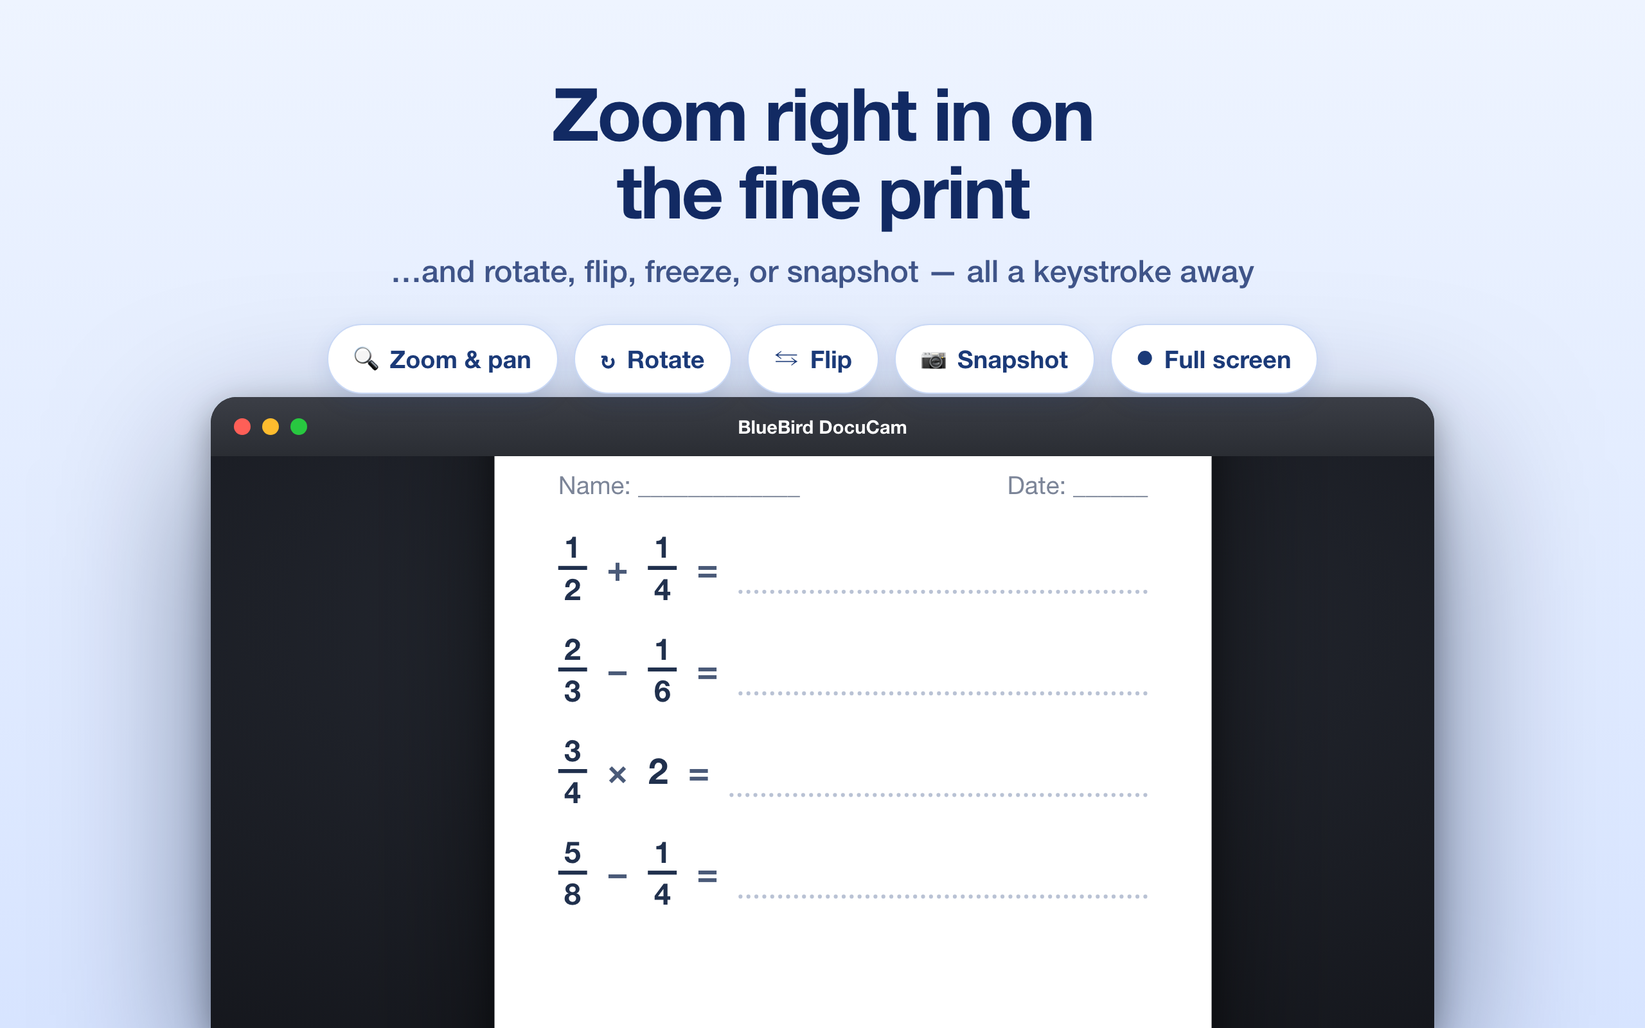
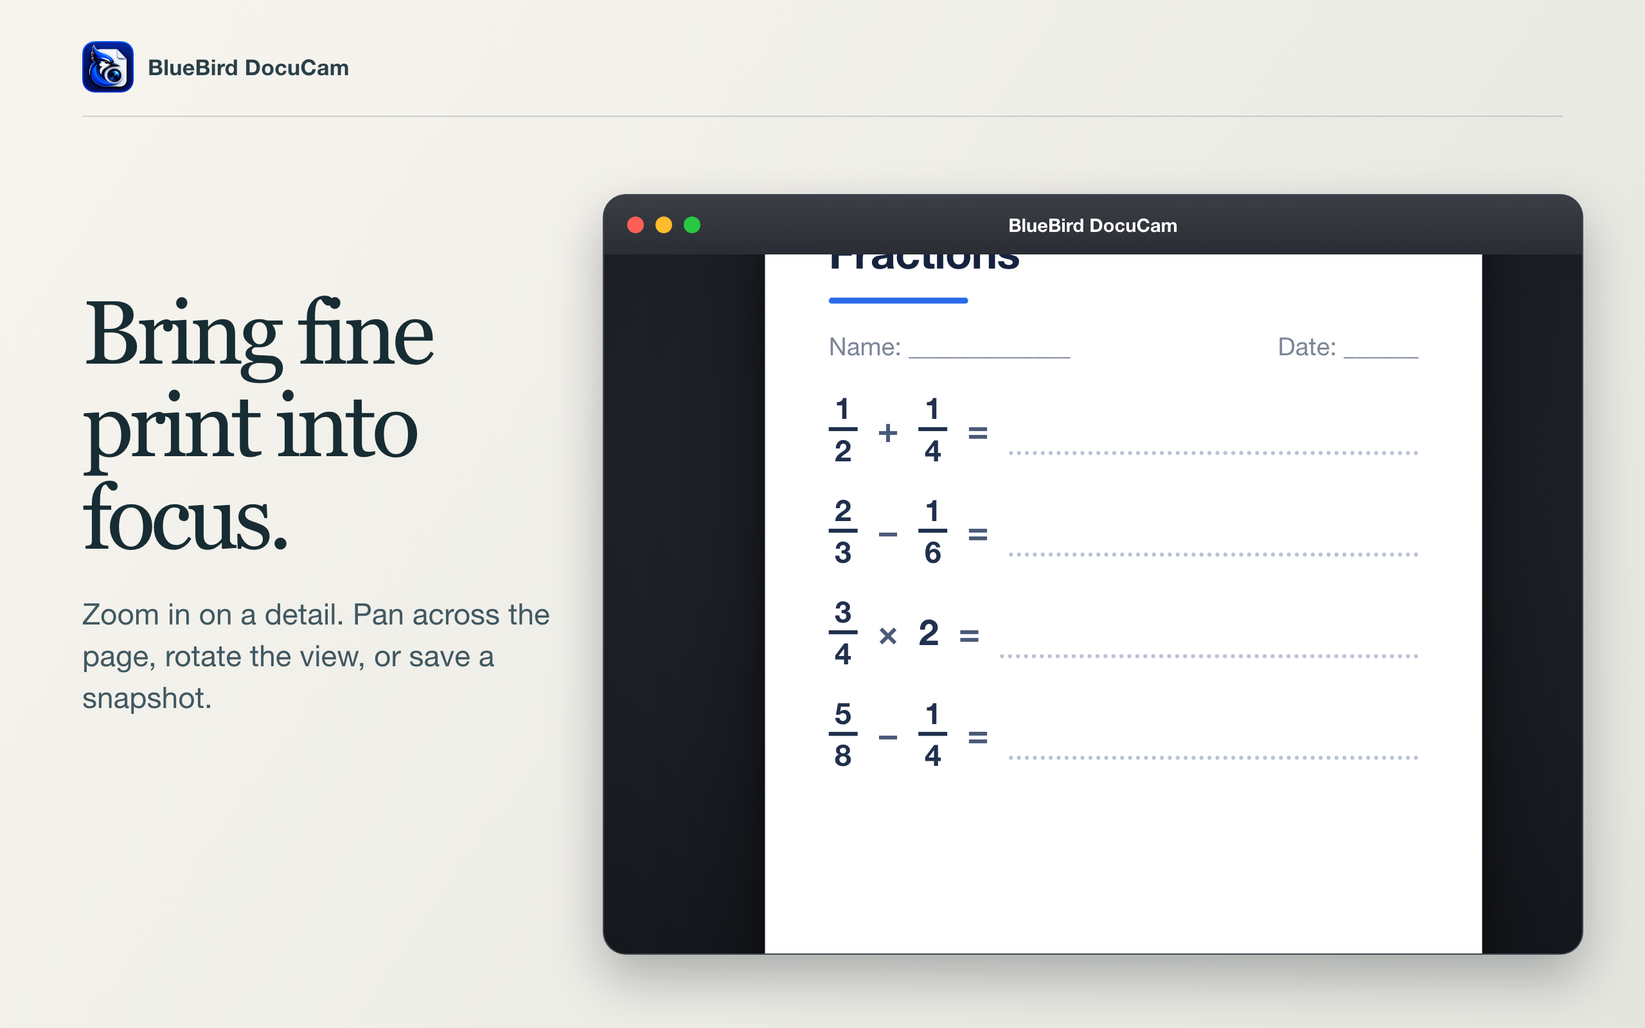
Refresh the Mac App Store gallery and listing copy

diff --git a/appstore/shots/base.css b/appstore/shots/base.css
@@ -122,3 +122,73 @@ html,body{width:1280px;height:800px;overflow:hidden;background:#000;
 
 /* zoom loupe framing */
 .viewer.zoom > .paper{transform:scale(1.55);transform-origin:38% 42%;}
+
+/* Production app branding and camera-choice campaign (November 2026). */
+.brand-lockup{position:absolute;top:28px;left:50%;transform:translateX(-50%);display:flex;align-items:center;gap:12px;z-index:8;white-space:nowrap;color:#fff;font-size:17px;font-weight:700;letter-spacing:.15px;}
+.brand-lockup img{width:44px;height:44px;object-fit:contain;}
+.stage.light .brand-lockup{color:#17376d;}
+.headline{padding-top:100px;flex-shrink:0;}
+.headline h1{font-size:53px;}
+.headline p{font-size:22px;}
+.dual-stage .headline h1{font-size:57px;}
+.dual-stage .headline p{margin-top:15px;}
+.dual-hero{position:absolute;top:310px;bottom:58px;left:0;right:0;}
+.hero-window{position:absolute;left:282px;top:6px;width:716px;height:376px;z-index:2;}
+.hero-window .viewer>.paper{transform:scale(.65);}
+.device-card{position:absolute;width:230px;text-align:center;color:#fff;z-index:4;}
+.usb-card{left:30px;top:34px;}
+.device-card svg{width:210px;height:230px;filter:drop-shadow(0 15px 15px rgba(0,15,55,.25));}
+.device-card h2{font-size:19px;line-height:1.25;letter-spacing:-.3px;margin-top:15px;}
+.device-card p{font-size:15px;line-height:1.4;color:#d6e6ff;margin-top:7px;}
+.phone-card{right:30px;top:14px;}
+.phone-back{position:relative;margin:0 auto;width:130px;height:253px;border-radius:27px;background:linear-gradient(140deg,#d9e3f2,#8eaccd 65%,#6388b0);border:3px solid #d5e4f6;box-shadow:12px 18px 26px rgba(0,15,55,.35),inset -5px 0 8px rgba(23,45,81,.2);transform:rotate(8deg);}
+.camera-island{position:absolute;left:9px;top:10px;width:67px;height:71px;border-radius:17px;background:#aac0db;box-shadow:0 2px 5px #6c86a2;}
+.camera-island i{position:absolute;width:26px;height:26px;border-radius:50%;border:3px solid #768da8;background:radial-gradient(circle at 42% 40%,#3b718e 0%,#091322 35%,#0b1020 65%,#31455f 100%);}
+.camera-island i:nth-child(1){left:5px;top:6px;}.camera-island i:nth-child(2){left:33px;top:24px;}.camera-island i:nth-child(3){left:5px;top:40px;}
+.camera-island b{position:absolute;width:10px;height:10px;right:10px;top:8px;border-radius:50%;background:#fff3cf;}
+.phone-ring{position:absolute;left:35px;top:134px;width:57px;height:57px;border:5px solid rgba(238,246,255,.4);border-radius:50%;}
+.hero-footer{position:absolute;top:403px;width:100%;text-align:center;font-size:20px;font-weight:600;color:#eff6ff;}
+.compatibility{position:absolute;bottom:21px;left:0;right:0;text-align:center;color:#cadcf6;font-size:12px;}
+.usb-corner{position:absolute;right:42px;bottom:30px;width:228px;text-align:center;background:rgba(255,255,255,.93);padding:12px 12px 17px;border-radius:22px;box-shadow:0 15px 40px rgba(15,40,90,.2);z-index:6;}
+.usb-corner svg{width:180px;height:196px;}
+.usb-corner span{display:block;font-size:14px;font-weight:700;color:#17376d;}
+
+/* Record locally and replay the finished movie using a Mac video player. */
+.recording-stage .headline h1{font-size:57px;}
+.recording-window{position:absolute;left:60px;top:310px;width:780px;height:410px;}
+.recording-window .viewer>.paper{transform:scale(.69);}
+.record-pill{position:absolute;top:14px;left:50%;transform:translateX(-50%);display:flex;align-items:center;gap:8px;padding:7px 12px;border-radius:10px;background:rgba(130,12,18,.94);color:#fff;font-size:16px;font-weight:700;}
+.record-pill i{width:9px;height:9px;background:#ff5c62;border-radius:50%;}
+.saved-lesson{position:absolute;right:60px;top:346px;width:310px;padding:23px 20px 24px;background:#f5f9ff;border:1px solid #e7effc;border-radius:23px;box-shadow:0 24px 60px rgba(0,10,40,.32);text-align:center;}
+.saved-folder{width:94px;height:71px;}
+.saved-lesson h2{font-size:22px;letter-spacing:-.5px;color:#17376d;margin-top:9px;}
+.saved-lesson>p{font-size:15px;color:#657997;margin-top:6px;}
+.saved-video{margin-top:22px;padding:13px 10px;background:#fff;border:1px solid #dce6f5;border-radius:12px;display:flex;align-items:center;gap:10px;text-align:left;color:#203a61;font-size:14px;font-weight:600;}
+.video-play{width:34px;height:34px;display:flex;align-items:center;justify-content:center;background:#296beb;color:#fff;border-radius:50%;font-size:14px;flex-shrink:0;}
+.saved-video small{display:block;font-size:11px;font-weight:400;color:#7686a0;margin-top:5px;}
+.watch-later{font-size:14px;line-height:1.5;color:#4d6485;margin-top:18px;}
+.recording-footer{position:absolute;bottom:25px;left:0;right:0;text-align:center;color:#d6e6ff;font-size:17px;}
+
+/* Store gallery: dark indigo, warm paper and a consistent editorial grid. */
+.stage.blue,.stage.deep{background:radial-gradient(ellipse at 92% 104%,#224b72,transparent 68%),#101c2b}
+.stage.light{background:linear-gradient(125deg,#f8f5ef,#e4e5df)}
+.stage .brand-lockup{left:64px;right:64px;top:32px;transform:none;padding-bottom:18px;border-bottom:1px solid #aec6d240;gap:11px;color:#d7e4ed;font-weight:550}
+.stage.light .brand-lockup{color:#293f48;border-color:#293f4830}
+.brand-lockup img{width:40px;height:40px}
+.stage .headline{text-align:left;position:absolute;top:111px;left:64px;width:1152px;padding:0}
+.stage .headline h1{font:normal 74px/1.03 Georgia,serif;letter-spacing:-3.6px;color:#fffaf0}
+.stage.light .headline h1{color:#172c33}
+.stage .headline p{font-size:24px;line-height:1.42;font-weight:400;color:#c6d8e3}
+.stage.light .headline p{color:#405861}
+.stage .window{border:1px solid #84919b70;box-shadow:0 18px 40px #07131c48}
+.dual-hero{top:290px}
+.hero-window{height:408px}
+.compatibility{font-size:15px;bottom:28px}
+.stage:not(.dual-stage):not(.recording-stage) .headline{top:223px;width:367px}
+.stage:not(.dual-stage):not(.recording-stage) .headline h1{font-size:70px}
+.stage:not(.dual-stage):not(.recording-stage) .headline p{margin-top:22px;font-size:23px}
+.stage .window.bleed{position:absolute;left:469px;right:48px;top:151px;bottom:57px;width:auto;height:auto;margin:0;border-radius:18px}
+.stage .chips{display:none}
+.usb-corner{transform:scale(.68);transform-origin:bottom right}
+.recording-window{top:285px;height:420px}
+.saved-lesson{top:322px}

diff --git a/appstore/shots/shot1.html b/appstore/shots/shot1.html
@@ -1,16 +1,23 @@
-<!doctype html><html><head><meta charset="utf-8"><link rel="stylesheet" href="base.css"></head>
-<body>
-<div class="stage blue">
-  <div class="headline">
-    <h1>Your iPhone is the<br>document camera</h1>
-    <p>Continuity Camera — no cart, no cables, nothing extra to buy</p>
-  </div>
-  <div class="combo">
-    <div class="window float">
-      <div class="titlebar"><div class="dots"><i class="dot r"></i><i class="dot y"></i><i class="dot g"></i></div>
-        <div class="title"><b>BlueBird DocuCam</b></div></div>
-      <div class="viewer">
-        <div class="paper page-portrait">
+<!doctype html><html><head><meta charset="utf-8"><link rel="stylesheet" href="base.css"></head><body>
+<div class="stage plate-1 blue dual-stage">
+<div class="brand-lockup"><img src="app-icon.png" alt="BlueBird DocuCam app icon"><span>BlueBird DocuCam</span></div>
+<div class="headline"><h1>Your desk, on the big screen.</h1><p>Teach from a USB document camera or a compatible iPhone.</p></div>
+<div class="dual-hero">
+<div class="device-card usb-card"><svg viewBox="0 0 230 250" role="img" aria-label="USB document camera on an adjustable stand above a worksheet">
+<defs><linearGradient id="metal" x2="1" y2="1"><stop stop-color="#8b9bad"/><stop offset=".45" stop-color="#e6edf5"/><stop offset="1" stop-color="#5b6d84"/></linearGradient><linearGradient id="body" x2="0" y2="1"><stop stop-color="#37465b"/><stop offset="1" stop-color="#14243a"/></linearGradient></defs>
+<ellipse cx="117" cy="229" rx="95" ry="12" fill="#041734" opacity=".23"/>
+<rect x="27" y="196" width="176" height="32" rx="13" fill="url(#body)"/>
+<path d="M173 204V94L114 54" fill="none" stroke="#13243b" stroke-width="23" stroke-linecap="round" stroke-linejoin="round"/>
+<path d="M173 200V94L114 54" fill="none" stroke="url(#metal)" stroke-width="15" stroke-linecap="round" stroke-linejoin="round"/>
+<circle cx="173" cy="96" r="14" fill="#203652"/><circle cx="173" cy="96" r="6" fill="#8aa1bf"/>
+<rect x="60" y="35" width="100" height="37" rx="13" fill="url(#body)" transform="rotate(9 110 54)"/>
+<ellipse cx="81" cy="75" rx="18" ry="9" fill="#111b2b"/><ellipse cx="81" cy="77" rx="11" ry="5" fill="#147bd7"/>
+<rect x="49" y="151" width="98" height="55" rx="3" fill="white" transform="rotate(-6 98 180)"/>
+<path d="M64 164h55M63 173h46M62 182h59M62 191h39" stroke="#c8d8eb" stroke-width="3"/>
+<path d="M201 212q30 3 21 29" fill="none" stroke="#394d68" stroke-width="5"/>
+<rect x="210" y="238" width="15" height="8" rx="2" fill="#768ba5"/>
+</svg><h2>USB document camera</h2><p>Plug into your Mac</p></div>
+<div class="window hero-window"><div class="titlebar"><div class="dots"><i class="dot r"></i><i class="dot y"></i><i class="dot g"></i></div><div class="title"><b>BlueBird DocuCam</b></div></div><div class="viewer">        <div class="paper page-portrait">
           <div class="ws-h">Fractions</div>
           <div class="ws-rule"></div>
           <div class="ws-meta"><span>Name: _____________</span><span>Date: ______</span></div>
@@ -24,24 +31,8 @@
             <div class="pie" style="background:conic-gradient(var(--brand) 0 50%,#eef3ff 0 100%)"></div>
             <div class="pie" style="background:conic-gradient(var(--brand) 0 75%,#eef3ff 0 100%)"></div>
           </div>
-        </div>
-        <div class="badge tr brand"><span class="ic">&#128241;</span> iPhone camera</div>
-      </div>
-    </div>
-    <div class="iphone"><div class="notch"></div><div class="scr">
-      <div class="paper page-portrait">
-        <div class="ws-h">Fractions</div>
-        <div class="ws-rule"></div>
-        <div class="ws-meta"><span>Name: _____________</span><span>Date: ______</span></div>
-        <ul class="ws-list">
-          <li><span class="frac"><span>1</span><span>2</span></span><span class="op">+</span><span class="frac"><span>1</span><span>4</span></span><span class="op">=</span><span class="blank"></span></li>
-          <li><span class="frac"><span>2</span><span>3</span></span><span class="op">&minus;</span><span class="frac"><span>1</span><span>6</span></span><span class="op">=</span><span class="blank"></span></li>
-          <li><span class="frac"><span>3</span><span>4</span></span><span class="op">&times;</span><span style="font-size:18px">2</span><span class="op">=</span><span class="blank"></span></li>
-          <li><span class="frac"><span>5</span><span>8</span></span><span class="op">&minus;</span><span class="frac"><span>1</span><span>4</span></span><span class="op">=</span><span class="blank"></span></li>
-        </ul>
-      </div>
-    </div></div>
-    <div class="link-pill" style="left:auto;right:205px;top:58%;transform:translateY(-50%)"><span class="ic">&#10022;</span> Continuity Camera</div>
-  </div>
-</div>
-</body></html>
+        </div></div></div>
+<div class="device-card phone-card"><div class="phone-back"><div class="camera-island"><i></i><i></i><i></i><b></b></div><div class="phone-ring"></div></div><h2>Your iPhone</h2><p>Apple Continuity Camera</p></div>
+
+</div><div class="compatibility">iPhone camera requires a compatible iPhone and Mac configured for Apple Continuity Camera.</div>
+</div></body></html>

diff --git a/appstore/shots/shot2.html b/appstore/shots/shot2.html
@@ -1,9 +1,9 @@
 <!doctype html><html><head><meta charset="utf-8"><link rel="stylesheet" href="base.css"></head>
 <body>
-<div class="stage light">
+<div class="stage plate-2 light">
+  <div class="brand-lockup"><img src="app-icon.png" alt="BlueBird DocuCam app icon"><span>BlueBird DocuCam</span></div>
   <div class="headline">
-    <h1>Project any page &mdash;<br>big, bright, <span class="accent">full&#8209;screen</span></h1>
-    <p>Auto-connects when you plug the camera in. No setup, no clutter.</p>
+    <h1>Give every seat a clear view.</h1><p>Project a book, worksheet, or live demonstration from your USB camera.</p>
   </div>
   <div class="window bleed">
     <div class="titlebar"><div class="dots"><i class="dot r"></i><i class="dot y"></i><i class="dot g"></i></div>
@@ -19,5 +19,19 @@
       </div>
     </div>
   </div>
+  <div class="usb-corner"><svg viewBox="0 0 230 250" role="img" aria-label="USB document camera on an adjustable stand above a worksheet">
+<defs><linearGradient id="metal" x2="1" y2="1"><stop stop-color="#8b9bad"/><stop offset=".45" stop-color="#e6edf5"/><stop offset="1" stop-color="#5b6d84"/></linearGradient><linearGradient id="body" x2="0" y2="1"><stop stop-color="#37465b"/><stop offset="1" stop-color="#14243a"/></linearGradient></defs>
+<ellipse cx="117" cy="229" rx="95" ry="12" fill="#041734" opacity=".23"/>
+<rect x="27" y="196" width="176" height="32" rx="13" fill="url(#body)"/>
+<path d="M173 204V94L114 54" fill="none" stroke="#13243b" stroke-width="23" stroke-linecap="round" stroke-linejoin="round"/>
+<path d="M173 200V94L114 54" fill="none" stroke="url(#metal)" stroke-width="15" stroke-linecap="round" stroke-linejoin="round"/>
+<circle cx="173" cy="96" r="14" fill="#203652"/><circle cx="173" cy="96" r="6" fill="#8aa1bf"/>
+<rect x="60" y="35" width="100" height="37" rx="13" fill="url(#body)" transform="rotate(9 110 54)"/>
+<ellipse cx="81" cy="75" rx="18" ry="9" fill="#111b2b"/><ellipse cx="81" cy="77" rx="11" ry="5" fill="#147bd7"/>
+<rect x="49" y="151" width="98" height="55" rx="3" fill="white" transform="rotate(-6 98 180)"/>
+<path d="M64 164h55M63 173h46M62 182h59M62 191h39" stroke="#c8d8eb" stroke-width="3"/>
+<path d="M201 212q30 3 21 29" fill="none" stroke="#394d68" stroke-width="5"/>
+<rect x="210" y="238" width="15" height="8" rx="2" fill="#768ba5"/>
+</svg><span>Works with USB document cameras</span></div>
 </div>
 </body></html>

diff --git a/appstore/shots/shot6.html b/appstore/shots/shot6.html
@@ -1,0 +1,20 @@
+<!doctype html><html><head><meta charset="utf-8"><link rel="stylesheet" href="base.css"></head><body>
+<div class="stage plate-6 deep recording-stage">
+<div class="brand-lockup"><img src="app-icon.png" alt="BlueBird DocuCam app icon"><span>BlueBird DocuCam</span></div>
+<div class="headline"><h1>Keep the whole lesson.</h1><p>Record a demonstration to your Mac. Open the saved movie when it’s time to review.</p></div>
+<div class="window recording-window"><div class="titlebar"><div class="dots"><i class="dot r"></i><i class="dot y"></i><i class="dot g"></i></div><div class="title"><b>BlueBird DocuCam</b></div></div><div class="viewer">      <div class="paper page-portrait passage big">
+        <div class="ws-h">The Water Cycle</div>
+        <div class="ws-rule"></div>
+        <p>Water is always on the move. The sun warms lakes and oceans until the water turns to vapor and rises into the sky &mdash; this is <em>evaporation</em>.</p>
+        <p>High up, the vapor cools and gathers into clouds. We call this <em>condensation</em>. When the droplets grow heavy enough, they fall as rain or snow &mdash; <em>precipitation</em>.</p>
+        <p>The water flows into streams and rivers, back to the sea, and the whole cycle begins again.</p>
+        <p style="color:#7c8598;font-size:13px;margin-top:18px">Draw the four stages in the boxes below.</p>
+      </div><div class="record-pill"><i></i> REC</div></div></div>
+<div class="saved-lesson">
+<svg viewBox="0 0 120 90" class="saved-folder" aria-label="A folder on your Mac"><path d="M5 22q0-9 9-9h32l12 12h48q9 0 9 9v43q0 9-9 9H14q-9 0-9-9z" fill="#57b8f5"/><path d="M5 40q0-8 8-8h94q8 0 8 8v37q0 9-9 9H14q-9 0-9-9z" fill="#8bd4ff"/><path d="M8 41h104" stroke="#c4eeff" stroke-width="2"/></svg>
+<h2>Lesson Recordings</h2><p>Your folder. Your Mac.</p>
+<div class="saved-video"><span class="video-play">▶</span><span>DocuCam lesson.mov<small>Saved video recording</small></span></div>
+<div class="watch-later">Open in your Mac video player<br>whenever you need it.</div>
+</div>
+
+</div></body></html>

diff --git a/appstore/shots/shot3.html b/appstore/shots/shot3.html
@@ -1,9 +1,9 @@
 <!doctype html><html><head><meta charset="utf-8"><link rel="stylesheet" href="base.css"></head>
 <body>
-<div class="stage blue">
+<div class="stage plate-3 blue">
+  <div class="brand-lockup"><img src="app-icon.png" alt="BlueBird DocuCam app icon"><span>BlueBird DocuCam</span></div>
   <div class="headline">
-    <h1>Freeze the frame.<br>Then draw right on it.</h1>
-    <p>Pen and highlighter in any color &mdash; then wipe it clean and go live again</p>
+    <h1>Mark the moment.</h1><p>Freeze the page. Underline a word or highlight a passage while the class follows along.</p>
   </div>
   <div class="window bleed">
     <div class="titlebar"><div class="dots"><i class="dot r"></i><i class="dot y"></i><i class="dot g"></i></div>

diff --git a/appstore/shots/shot4.html b/appstore/shots/shot4.html
@@ -1,9 +1,9 @@
 <!doctype html><html><head><meta charset="utf-8"><link rel="stylesheet" href="base.css"></head>
 <body>
-<div class="stage blue">
+<div class="stage plate-4 blue">
+  <div class="brand-lockup"><img src="app-icon.png" alt="BlueBird DocuCam app icon"><span>BlueBird DocuCam</span></div>
   <div class="headline">
-    <h1>Scan pages into<br>one clean PDF</h1>
-    <p>Capture page after page &mdash; save the whole stack as a single file</p>
+    <h1>From paper to PDF.</h1><p>Capture a stack of handouts, page by page. Save them together in one PDF.</p>
   </div>
   <div class="window bleed">
     <div class="titlebar"><div class="dots"><i class="dot r"></i><i class="dot y"></i><i class="dot g"></i></div>

diff --git a/appstore/shots/shot5.html b/appstore/shots/shot5.html
@@ -1,9 +1,9 @@
 <!doctype html><html><head><meta charset="utf-8"><link rel="stylesheet" href="base.css"></head>
 <body>
-<div class="stage light">
+<div class="stage plate-5 light">
+  <div class="brand-lockup"><img src="app-icon.png" alt="BlueBird DocuCam app icon"><span>BlueBird DocuCam</span></div>
   <div class="headline">
-    <h1>Zoom right in on<br>the fine print</h1>
-    <p>&hellip;and rotate, flip, freeze, or snapshot &mdash; all a keystroke away</p>
+    <h1>Bring fine print into focus.</h1><p>Zoom in on a detail. Pan across the page, rotate the view, or save a snapshot.</p>
   </div>
   <div class="chips">
     <div class="chip"><span class="ic">&#128269;</span> Zoom &amp; pan</div>

diff --git a/appstore/LISTING.md b/appstore/LISTING.md
@@ -1,7 +1,7 @@
 # BlueBird DocuCam — App Store listing copy
 
-Paste-ready text for App Store Connect. Screenshots are in `appstore/shots/shot1–5.png`
-(2560×1600, the accepted macOS size). Suggested order: 1 → 5 as numbered.
+Paste-ready text for App Store Connect. Screenshots are in `appstore/shots/shot1–6.png`
+(2560×1600, the accepted macOS size). Suggested order: 1 → 6 as numbered.
 
 ---
 
@@ -12,36 +12,31 @@ BlueBird DocuCam
 Document Camera & PDF Scanner
 
 ## Promotional Text  *(170 char max — editable anytime without review)*
-Turn your Mac and iPhone into a classroom document camera. Project any page full‑screen, freeze and annotate, scan to PDF, and zoom in — no extra hardware.
+Black Friday ends Nov 30. US prices: lifetime $22.49 Nov 27–30. Subscribe Nov 28–30 for $1.09/month or $5.99/year. Keep your rate while your subscription stays active.
 
 ## Keywords  *(100 char max, comma‑separated; “document/camera/scanner” already indexed from the name+subtitle)*
 doc cam,visualizer,classroom,teacher,projector,elmo,annotate,continuity,whiteboard,overhead,scan
 
 ## Description
 
-BlueBird DocuCam turns your Mac into a dead‑simple document camera — and your iPhone or iPad into the camera itself. It’s built for teachers who just want to show a worksheet, a book page, or a hands‑on demo on the big screen, without wrestling clunky hardware or overkill software.
+Show the page on your desk to everyone in the room. BlueBird DocuCam turns your Mac into a full-screen document camera for worksheets, books, and hands-on demonstrations. Connect a USB document camera, select a built-in camera, or use a compatible iPhone with Apple Continuity Camera.
 
-Open it, point a camera at the page, and it fills the screen. That’s it.
+Teach from the page
+Zoom in on a diagram or a line of fine print. Freeze the frame to underline a word, circle a detail, or highlight a passage, then return to the live camera. Classroom presets let you bring back the view you use between lessons.
 
-**Use your iPhone or iPad as the camera**
-With Continuity Camera, your iPhone or iPad becomes a sharp, high‑resolution document camera — no cart, no cables, nothing extra to buy. Any USB or built‑in camera works too, and it auto‑connects the moment you plug one in.
+Make a handout from paper
+Capture pages in sequence and save them together as a PDF. For a single image, save a snapshot or copy the frame to the clipboard.
 
-**Project any page, full‑screen**
-Crisp, edge‑to‑edge output for your projector or classroom TV. BlueBird DocuCam remembers your camera and settings between classes, so you’re ready to teach in seconds.
+Record a demonstration
+Save a lesson as a movie in a folder you choose on your Mac. Open the recording in a Mac video player to revisit the demonstration later.
 
-**Freeze and annotate**
-Freeze the current frame to talk over it, then draw right on the page with a pen or highlighter in any color. Wipe it clean and go live again in a tap.
+Purchase options
+Choose a monthly or annual subscription, or unlock lifetime access with a one-time purchase. Eligible subscribers can start with a 14-day free trial. The app shows your local price and trial eligibility before purchase.
 
-**Scan straight to PDF**
-Capture page after page and save the whole set as a single PDF — perfect for handouts, worksheets, and forms.
+Apple charges your account when you confirm a purchase or when an eligible free trial ends. Subscriptions renew automatically unless canceled at least 24 hours before the end of the current period. Manage or cancel in your App Store account settings.
 
-**Zoom, rotate, flip, snapshot**
-Zoom in on the fine print, rotate or flip the image to fix upside‑down or mirrored text, and snapshot any frame to an image file or the clipboard.
-
-**Simple by design**
-No accounts. No clutter. No learning curve. Just the document‑camera tools a classroom actually needs, in a clean, native Mac app.
-
-Start with a 30‑day free trial — no commitment. Keep going with an affordable monthly or yearly subscription, and cancel anytime.
+Terms of Use (EULA): https://www.apple.com/legal/internet-services/itunes/dev/stdeula/
+Privacy Policy: https://emerytech.github.io/bluebird-docucam/privacy.html
 
 ## What’s New  *(first release)*
 The first release of BlueBird DocuCam for Mac. Turn your Mac and iPhone into a classroom document camera — project full‑screen, freeze and annotate, scan pages to PDF, and zoom in on any detail.
@@ -59,11 +54,12 @@ The first release of BlueBird DocuCam for Mac. Turn your Mac and iPhone into a c
 ## Screenshots
 | # | File | Message |
 |---|------|---------|
-| 1 | shot1.png | iPhone as the document camera (the hook) |
-| 2 | shot2.png | Project any page, full‑screen |
+| 1 | shot1.png | USB document camera or iPhone via Apple Continuity Camera |
+| 2 | shot2.png | USB document camera on a bigger classroom display |
 | 3 | shot3.png | Freeze & annotate |
 | 4 | shot4.png | Scan pages into one PDF |
 | 5 | shot5.png | Zoom, rotate, flip, snapshot |
+| 6 | shot6.png | Record lessons, save videos on your Mac, watch later |
 
 > These are designed marketing screenshots that faithfully reproduce the app’s real UI
 > (blue theme, the “⏸ Paused” and page‑count badges, the annotation toolbar). Once the app
